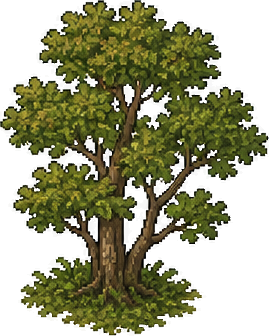
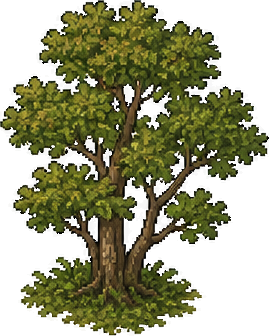
Árboles: quitar el CONTORNO claro del arte + mota flotante del sauce
El "halo blanco" no era del recorte sino del propio arte: un contorno
gris-claro (rim-light, ~RGB 172) trazado alrededor de cada masa de follaje
y rama. Se detectan esos píxeles claros y DESATURADOS (sat<30, brillo alto)
en el follaje/tronco y se recolorean con el color vecino oscurecido
(protegiendo las rocas de la base). El sauce conservaba una mota de follaje
suelta flotando: eliminada (para el sauce se queda solo el componente
mayor). Bump SPRITE_VER 56→57.

diff --git a/assets/js/hac-iso.js b/assets/js/hac-iso.js
@@ -22,7 +22,7 @@ const HacIso = (function () {
   const TOP_MARGIN = 132;             // hueco arriba para edificios altos, murallas y torres
   const PAD_X = 40;                   // margen lateral para murallas y paseo de ronda
   const SPRITE_BASE = 'assets/img/iso/';
-  const SPRITE_VER = '56';  // súbelo al regenerar los PNG (cache-busting)
+  const SPRITE_VER = '57';  // súbelo al regenerar los PNG (cache-busting)
 
   // ── Color helpers (para el placeholder) ─────────────────────────────────
   const { hexToRgb, clamp255: cl } = HacUtil;
